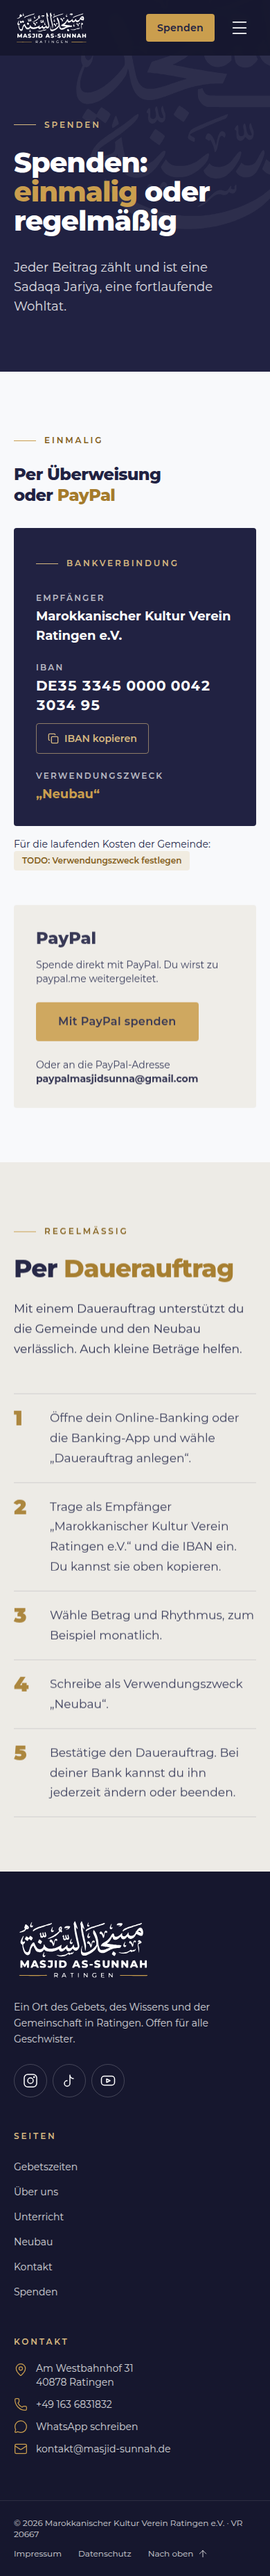
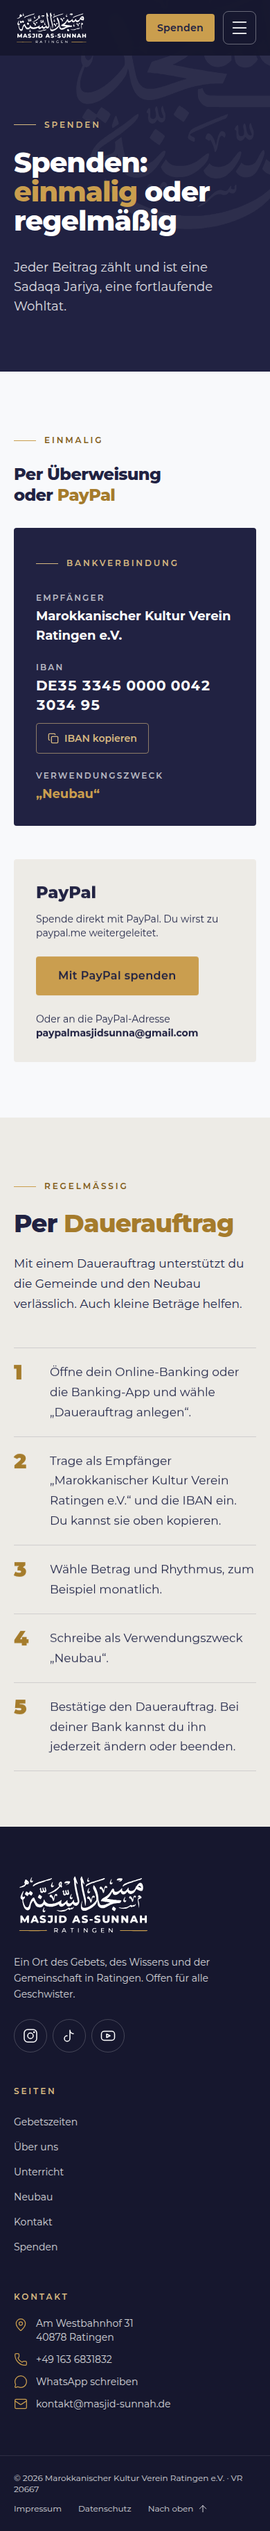
Entscheidungen umgesetzt: Betriebskosten, Spendenziel, Aktuelles, Unterricht-Platzhalter, 1997 entfernt; TODO.md bereinigt
Claude-Session: https://claude.ai/code/session_01EuK36WCbY4YasYgtyrW1Dk

diff --git a/src/app/unterricht/page.tsx b/src/app/unterricht/page.tsx
@@ -1,7 +1,7 @@
 import type { Metadata } from "next";
 import { pageMeta } from "@/lib/seo";
 import { MessageCircle } from "lucide-react";
-import { Button, Card, Heading, Label, Section, TodoChip } from "@/components/ui";
+import { Button, Heading, Label, Section } from "@/components/ui";
 import { Watermark } from "@/components/Logo";
 import { Reveal } from "@/components/Reveal";
 import { arabischStufen, quran } from "@/content/unterricht";
@@ -85,28 +85,16 @@ export default function Unterricht() {
       </Section>
 
       <Section id="anmeldung" tone="stone">
-        <div className="grid gap-12 lg:grid-cols-12 lg:gap-16">
-          <Reveal className="lg:col-span-5">
-            <Label>Anmeldung</Label>
-            <Heading className="mt-6" first="Melde dich" accent="an" />
-            <p className="mt-6">Schreib uns per WhatsApp.</p>
-            <div className="mt-8 flex flex-wrap gap-4">
-              <Button href={wa("Assalamu alaikum, ich möchte mich für den Arabisch-Unterricht anmelden.")} icon={<MessageCircle className="size-4" aria-hidden />}>Arabisch</Button>
-              <Button href={wa("Assalamu alaikum, ich möchte mich für den Qur’an-Unterricht anmelden.")} variant="navy" icon={<MessageCircle className="size-4" aria-hidden />}>Qur’an</Button>
-            </div>
-          </Reveal>
-          <Reveal className="lg:col-span-7" delay={120}>
-            <div className="grid gap-6 sm:grid-cols-3">
-              {/* TODO: Angaben vom Vorstand: Uhrzeiten, Kosten, Altersgruppen (Arabisch: nur Kinder oder auch Erwachsene?), Anmeldeweg */}
-              {["Uhrzeiten", "Kosten", "Altersgruppen"].map((t) => (
-                <Card key={t} tone="paper" className="p-6">
-                  <h3 className="text-lg">{t}</h3>
-                  <p className="mt-3"><TodoChip>folgt</TodoChip></p>
-                </Card>
-              ))}
-            </div>
-          </Reveal>
-        </div>
+        <Reveal className="max-w-2xl">
+          <Label>Anmeldung</Label>
+          <Heading className="mt-6" first="Melde dich" accent="an" />
+          <p className="mt-6">Anmeldung und Fragen laufen über WhatsApp.</p>
+          <div className="mt-8 flex flex-wrap gap-4">
+            <Button href={wa("Assalamu alaikum, ich möchte mich für den Arabisch-Unterricht anmelden.")} icon={<MessageCircle className="size-4" aria-hidden />}>Arabisch anmelden</Button>
+            <Button href={wa("Assalamu alaikum, ich möchte mich für den Qur’an-Unterricht anmelden.")} variant="navy" icon={<MessageCircle className="size-4" aria-hidden />}>Qur’an anmelden</Button>
+            <Button href={site.whatsapp} variant="outline-dark" icon={<MessageCircle className="size-4" aria-hidden />}>Frage stellen</Button>
+          </div>
+        </Reveal>
       </Section>
     </>
   );

diff --git a/src/app/page.tsx b/src/app/page.tsx
@@ -14,7 +14,6 @@ import { JsonLd } from "@/components/JsonLd";
 import { StandortSection } from "@/components/StandortSection";
 import { InstagramIcon, TiktokIcon, YoutubeIcon } from "@/components/icons";
 import { berlinNow } from "@/lib/prayer";
-import { events } from "@/content/events";
 import { bereiche, hadith } from "@/content/neubau";
 import { site } from "@/content/site";
 
@@ -24,7 +23,6 @@ const MAWAQIT = "https://mawaqit.net/de/msjd-lsn-ratingen-40878-germany";
 
 export default function Home() {
   const buildDate = berlinNow().date;
-  const upcoming = events.filter((e) => e.date >= buildDate);
 
   return (
     <>
@@ -165,29 +163,7 @@ export default function Home() {
         </div>
       </Section>
 
-      {/* 6 · Aktuelles (nur bei kommenden Terminen) */}
-      {upcoming.length > 0 ? (
-        <Section id="aktuelles" tone="stone">
-          <Label>Aktuelles</Label>
-          <Heading className="mt-6" first="Kommende" accent="Termine" />
-          <div className="mt-12 grid gap-6 md:grid-cols-2">
-            {upcoming.map((e) => (
-              <Card key={e.title + e.date} tone="paper">
-                <h3 className="text-2xl">{e.title}</h3>
-                {e.titleAr ? <p lang="ar" dir="rtl" className="mt-1 text-xl text-gold-ink">{e.titleAr}</p> : null}
-                <p className="mt-3 font-semibold">{e.dateLabel}</p>
-                {e.schedule ? (
-                  <ul className="mt-4 space-y-1 text-sm">{e.schedule.map((s) => (<li key={s.label} className="flex justify-between gap-4 border-b border-navy/10 py-1"><span>{s.label}</span><span className="font-bold tabular-nums">{s.time} Uhr</span></li>))}</ul>
-                ) : null}
-                <p className="mt-4 text-sm">{e.place.map((l) => (<span key={l} className="block">{l}</span>))}</p>
-                {e.notes ? <ul className="mt-4 list-disc space-y-1 pl-5 text-sm">{e.notes.map((n) => (<li key={n}>{n}</li>))}</ul> : null}
-              </Card>
-            ))}
-          </div>
-        </Section>
-      ) : null}
-
-      {/* 7 · Social & WhatsApp */}
+      {/* 6 · Social & WhatsApp */}
       <Section id="social" tone="navy">
         <Watermark tone="white" opacity={0.04} className="-right-32 -top-24 w-[36rem]" />
         <div className="relative grid items-center gap-12 lg:grid-cols-12 lg:gap-20">
@@ -223,7 +199,7 @@ export default function Home() {
         </div>
       </Section>
 
-      {/* 8 · Standort (Karte ohne Embed) */}
+      {/* 7 · Standort (Karte ohne Embed) */}
       <StandortSection />
     </>
   );

diff --git a/src/app/spenden/page.tsx b/src/app/spenden/page.tsx
@@ -3,7 +3,7 @@ import { pageMeta } from "@/lib/seo";
 import { BankCard } from "@/components/BankCard";
 import { Watermark } from "@/components/Logo";
 import { Reveal } from "@/components/Reveal";
-import { Button, Heading, Label, Section, TodoChip } from "@/components/ui";
+import { Button, Heading, Label, Section } from "@/components/ui";
 import { site } from "@/content/site";
 
 export const metadata: Metadata = pageMeta({ path: "/spenden/", title: "Spenden", description: "Spenden für den Neubau und die Gemeinde der Masjid As-Sunnah Ratingen: per Überweisung, PayPal oder Dauerauftrag." });
@@ -36,8 +36,6 @@ export default function Spenden() {
             <Label>Einmalig</Label>
             <Heading className="mt-6" as="h2" size="md" first="Per Überweisung oder" accent="PayPal" />
             <div className="mt-8"><BankCard id="bank" /></div>
-            {/* TODO: Verwendungszweck für laufende Kosten festlegen (z. B. „Gemeinde“) und hier nennen. */}
-            <p className="mt-4 text-sm">Für die laufenden Kosten der Gemeinde: <TodoChip>Verwendungszweck festlegen</TodoChip></p>
           </Reveal>
           <Reveal className="lg:col-span-5" delay={120}>
             <div className="rounded-sm bg-stone p-8">

diff --git a/src/content/neubau.ts b/src/content/neubau.ts
@@ -1,4 +1,4 @@
-// Texte zum Projekt Neubau. Keine Zahlen und kein Fortschritt, bis echte Angaben vorliegen.
+// Texte zum Projekt Neubau: Beschreibung und Hadith.
 export const bereiche = [
   { key: "gebet", titel: "Gebetsräume", kurz: "Helle Gebetsräume für Männer und Frauen, für die täglichen Gebete, Jumuʻa und Festgebete.", text: "Lichtdurchflutete Gebetsräume für Männer und Frauen, großzügig gestaltet für die täglichen Gebete, Jumuʻa und Festgebete." },
   { key: "bildung", titel: "Bildung", kurz: "Klassenräume, Bibliothek und Seminarräume für Qur’an-Unterricht, Bildung und Vorträge.", text: "Moderne Klassenräume, eine Bibliothek und Seminarräume für Qur’an-Unterricht, islamische Bildung und Vorträge." },

diff --git a/src/content/site.ts b/src/content/site.ts
@@ -12,9 +12,9 @@ export const site = {
   whatsapp: "https://wa.me/491636831832",
   email: { user: "kontakt", domain: "masjid-sunnah.de" },
   social: {
-    instagram: "https://www.instagram.com/sunnahmoschee", // TODO: URL gegen echten Kanal prüfen
-    tiktok: "https://www.tiktok.com/@sunnahmoschee", // TODO: URL gegen echten Kanal prüfen
-    youtube: "https://www.youtube.com/@sunnahmoschee", // TODO: URL gegen echten Kanal prüfen
+    instagram: "https://www.instagram.com/sunnahmoschee",
+    tiktok: "https://www.tiktok.com/@sunnahmoschee",
+    youtube: "https://www.youtube.com/@sunnahmoschee",
   },
   donate: {
     holder: "Marokkanischer Kultur Verein Ratingen e.V.",

diff --git a/src/content/seo.ts b/src/content/seo.ts
@@ -4,9 +4,9 @@
 export const pages: Record<string, { indexable: boolean; grund?: string }> = {
   "/": { indexable: false, grund: "Foto-Platzhalter (Hero, Neubau-Render)" },
   "/gebetszeiten/": { indexable: true },
-  "/unterricht/": { indexable: false, grund: "Uhrzeiten, Kosten, Altersgruppen fehlen" },
+  "/unterricht/": { indexable: true },
   "/neubau/": { indexable: false, grund: "Neubau-Render fehlt" },
-  "/spenden/": { indexable: false, grund: "Verwendungszweck für laufende Kosten fehlt" },
+  "/spenden/": { indexable: true },
   "/kontakt/": { indexable: true },
   "/impressum/": { indexable: true },
   "/datenschutz/": { indexable: true },

diff --git a/src/content/unterricht.ts b/src/content/unterricht.ts
@@ -1,4 +1,4 @@
-// Unterricht. Zeiten, Kosten, Altersgruppen und Anmeldeweg liefert der Vorstand nach (siehe TODO.md).
+// Unterricht. Anmeldung und Fragen laufen ausschließlich über WhatsApp (src/content/site.ts).
 export const arabischStufen = [
   { nr: 1, titel: "Buchstaben und erstes Lesen", punkte: ["Buchstaben lernen", "Erste Schritte im Lesen"] },
   { nr: 2, titel: "Lesen, Schreiben, Grundlagen", punkte: ["Leselektion: den Qur’an lesen", "Diktat und Schreiben", "Leichte, grundlegende Grammatik", "Religion nach Niveau, zum Beispiel Verhalten gegenüber Familie und Eltern, Säulen des Islams"] },

diff --git a/src/components/JsonLd.tsx b/src/components/JsonLd.tsx
@@ -3,8 +3,7 @@ import { site } from "@/content/site";
 
 /**
  * Schema.org „Mosque“: nur verbindliche Fakten (Name, Adresse, Telefon, E-Mail, Social-Profile, Koordinaten, Träger).
- * Keine Öffnungszeiten, Bewertungen, Kursdaten oder Gründungsjahr.
- * TODO: Social-URLs vor dem Livegang prüfen (siehe src/content/site.ts).
+ * Keine Öffnungszeiten, Bewertungen oder Kursdaten.
  */
 export function JsonLd() {
   const data = {

diff --git a/src/components/ui.tsx b/src/components/ui.tsx
@@ -170,12 +170,3 @@ export function Section({
     </section>
   );
 }
-
-/** Sichtbare Markierung für noch fehlende Angaben (wird entfernt, sobald die Angabe vorliegt). */
-export function TodoChip({ children }: { children: ReactNode }) {
-  return (
-    <span className="inline-flex rounded-sm bg-gold/15 px-3 py-1.5 text-xs font-semibold text-gold-ink">
-      TODO: {children}
-    </span>
-  );
-}

diff --git a/TODO.md b/TODO.md
@@ -1,77 +1,33 @@
-# Offene Punkte (wird laufend gepflegt)
+# Offene Punkte
 
-Im Code sind dieselben Stellen als sichtbares `TODO:` markiert.
+Stand: 5.10.2026. Nur was wirklich noch offen ist.
 
-## Von Ayman zu liefern
-- [ ] **Hosting:** Anbieter, Paket, Zugangsart, DNS-Verwaltung. Bis dahin statischer Export ohne Hosting-Annahmen.
-- [ ] **Kontaktformular:** bewusst nicht gebaut. Bis dahin WhatsApp, mailto, Telefon. Platz im Layout bleibt reserviert.
-- [ ] **Fotos:** innen, außen, Unterricht, Gemeinde. Bis dahin Platzhalter `TODO: echtes Foto`. Keine erkennbaren Personen, keine Kinder, bis ausdrücklich bestätigt.
-- [ ] **Neubau-Render** in voller Auflösung. Auf dem alten Server liegen `images/neubau-1…6.webp` (nicht geliefert).
-- [ ] **Spendenziel, Stand, Datum** (Neubau). Bis dahin kein Fortschrittsbalken, keine Zahlen.
-- [ ] **Betriebskosten pro Monat:** bis dahin kein Block „Was der Betrieb kostet“.
-- [ ] **Unterricht:** Uhrzeiten, Kosten, Altersgruppen, Anmeldeweg (bis dahin WhatsApp).
-- [ ] **Aktuelles:** aktuell keine Veranstaltung → Sektion ausgeblendet.
-- [ ] **Social-Designs** als Referenz (Flyer, Reel-Cover, Gebetszeiten-Tabelle).
-- [ ] **Gründungsjahr 1997:** nicht bestätigt, steht nicht auf der Seite.
-- [x] **Logo:** neues Paket (v2) eingebaut. SVGs rendern bei 1x und 3x korrekt, grauer Fleck ist weg. Header und Footer nutzen die weiße SVG.
-- [ ] **Repo `masjid-sunnah`:** konnte ich nicht anlegen. Aufbau liegt im Ordner `masjid-sunnah/` auf Branch `claude/practical-wright-d1vge6`.
-
-## Rechtlich prüfen lassen (nichts daran geändert)
-- [ ] Impressum und Datenschutz bleiben wörtlich wie auf der alten Seite. Rechtlich prüfen lassen:
-  - Impressum zitiert TMG. Das TMG wurde durch das DDG ersetzt.
-  - Datenschutz nennt nicht: Karte (OpenStreetMap, Klick-zum-Laden), TikTok-Einbettung, MAWAQIT (Abruf zur Build-Zeit, kein Besucherkontakt), WhatsApp/Telefon als Kontaktweg, Hoster.
-  - Der alte Text nennt Cloudflare Turnstile, Google Fonts und das MAWAQIT-iframe nicht. Die neue Seite lädt sie nicht.
-
-## Freigaben
-
-## Technisch
-- [x] **MAWAQIT:** echte confData als Datenquelle und Fallback (`data/mawaqit-confData.json`). Live-Abruf aus dieser Umgebung nicht möglich (HTTP 403), der Abruf-Teil des Skripts ist daher nur gegen einen nachgebauten HTML-Ausschnitt getestet. Einmal lokal oder in der CI mit Netzzugang prüfen: `npm run mawaqit` muss „neue Daten geladen“ melden.
-- [ ] **Jumuʿa:** 14:00 Uhr bis 25.10.2026, danach 13:00 Uhr (Winterzeit). Als Einstellung in `content/`. 29.10. = 28.10. in MAWAQIT, unverändert lassen.
-- [ ] Open-Graph-Bild: `og-image-1200x630.png` geliefert, in Phase 6 einbinden.
-- [ ] Favicons/Manifest: Icons geliefert, Manifest in Phase 6.
-
-## Phase 2 (Design-System)
-- [x] Screenshots der alten Seite gestrichen (Entscheidung Ayman). Phase 1 gilt als abgeschlossen, Texte aus `_incoming/alte-seite-text.txt`.
-- [ ] **Social-URLs vor Livegang prüfen:** `src/content/site.ts` (Instagram, TikTok, YouTube @sunnahmoschee) sind aus dem Handle abgeleitet und nicht geprüft.
-- [ ] `/styleguide/` vor dem Livegang entfernen (ist `noindex`).
-- [ ] Mobile-Menü und Header sind nur mit Platzhalterseiten getestet. Zielseiten (`/gebetszeiten/`, `/unterricht/`, `/neubau/`, `/kontakt/`, `/spenden/`, `/impressum/`, `/datenschutz/`) entstehen in den Phasen 3–5. Bis dahin 404.
-
-## Phase 3 (Startseite)
-- [ ] **Fotos (Platzhalter mit sichtbarem „TODO: echtes Foto“):** Neubau-Render (Querformat, volle Auflösung). Der Hero hat jetzt ein echtes Foto (siehe Phase 6). `aussen-eingang.jpg` wurde nicht geliefert. Gebetsraum-Foto ist eingebaut (Über uns, Gebetszeiten). In `src/app/page.tsx` über `<Photo src=… />` einsetzen. Keine erkennbaren Personen, keine Kinder.
-- [x] **Standort-Karte:** umgesetzt als dekorative Karte ohne Embed (`StandortKarte`), „Route planen“ öffnet Google Maps erst beim Klick in neuem Tab. Datenschutz laut Vorgabe nicht ergänzt, bei der Prüfung mit erwähnen (externer Link zu Google).
-- [ ] **Jumuʻa:** Einstellung in `src/content/settings.ts` (14:00 bis 24.10.2026, ab 25.10.2026 13:00).
-- [ ] **Aktuelles:** `src/content/events.ts` ist leer, die Sektion ist ausgeblendet. Ein Eintrag mit Datum blendet sie ein.
-- [ ] Hero-Headline, Angebots- und Neubau-Texte sind aus den Texten der alten Seite gekürzt/umformuliert (nicht die Rechtstexte). Bitte gegenlesen.
-- [ ] Schreibweise: im Text steht `ʻ` (U+02BB) statt `ʿ`, weil Montserrat dieses Zeichen sauber darstellt.
-
-## Phase 4 (Gebetszeiten)
-- [ ] **Deployment des täglichen Builds:** `.github/workflows/daily-build.yml` baut täglich (03:17 UTC) und lädt `out/` als Artefakt hoch. Der Deploy-Schritt fehlt, bis das Hosting klar ist. Der Workflow läuft erst, wenn `masjid-sunnah/` das Repo-Wurzelverzeichnis ist.
-- [ ] **Auffälligkeiten in den MAWAQIT-Daten (unverändert übernommen):**
-  - 17.8.: Maghrib-Beginn 20:51 (Nachbartage 20:57 und 20:53), Iqāma 21:01 (Nachbartage 21:07 und 21:03). Wirkt wie ein Tippfehler in MAWAQIT.
-  - Identisch zum Vortag: 7.1., 22.1., 6.2., 20.2., 1.3., 7.3., 9.3., 18.6., 22.6., 26.6., 3.7., 29.10., 12.11., 27.11., 12.12., 26.12. Der 29.10. bleibt wie vorgegeben.
-  - Kalender enthält 29 Tage im Februar und gilt jahresunabhängig (Zeiten sind Tag/Monat-Werte, kein Jahr).
-  - 25.2.: Dhuhr-Beginn 12:48 und Iqāma 12:58 (Nachbartage 12:46/12:56), kleine Abweichung.
-- [ ] `announcements` (Instagram/TikTok/YouTube/PayPal-QR-Bilder von MAWAQIT) sind in `data/mawaqit-confData.json` nicht enthalten, die Seite braucht sie nicht.
-- [ ] Hijri-Tageswechsel um Maghrib (optional) ist nicht gebaut. Wechsel erfolgt nach Kalendertag wie im gedruckten Plan.
-- [ ] Jumuʻa: MAWAQIT meldet 14:00 (`jumuaMawaqit`). Maßgeblich ist `src/content/settings.ts` (13:00 ab 25.10.2026). MAWAQIT selbst muss ab 25.10. auf 13:00 gestellt werden, sonst weicht die App ab.
-- [ ] Gebetszeiten-Seite ist druckbar (Strg+P), Layout für Papier noch nicht an den gedruckten Plan angeglichen.
-
-## Phase 5 (Unterseiten)
-- [ ] **Unterricht:** Uhrzeiten, Kosten, Altersgruppen (Arabisch: nur Kinder oder auch Erwachsene?) und Anmeldeweg fehlen, auf der Seite sichtbar als „TODO: folgt“. Anmeldung läuft bis dahin über WhatsApp mit vorbefülltem Text.
-- [ ] **Spenden:** Verwendungszweck für laufende Kosten festlegen (sichtbares TODO auf `/spenden/`). Block „Was der Betrieb kostet“ fehlt bewusst, bis echte Zahlen vorliegen.
-- [ ] **Neubau:** Render fehlt (Platzhalter), Spendenziel/Stand fehlen (kein Fortschrittsbalken). Text zu Sadaqa Jariya gegenlesen lassen (`src/app/neubau/page.tsx`).
-- [ ] **Kontaktformular:** bewusst nicht gebaut (Hosting, Backend, Datenschutz offen). Platz ist als Kommentar in `src/app/kontakt/page.tsx` vermerkt. Rechts auf `/kontakt/` steht bis dahin die Standort-Karte.
-- [ ] **Impressum/Datenschutz:** Text wörtlich übernommen und maschinell gegen die alte Seite geprüft. Einzige Abweichung: E-Mail-Adresse gegen Spam dargestellt (`kontakt [at] masjid-sunnah.de`, im Browser als Link). Weiter rechtlich prüfen lassen (siehe oben).
-- [ ] **Ansprache „du“:** Auf der ganzen Seite jetzt „du“ (Vorgabe „So findest du uns“). Die Rechtstexte bleiben wörtlich bei „Sie“. Falls „Sie“ gewünscht ist: Texte in `src/app/**` und `src/components/StandortSection.tsx`.
-- [ ] `font-mono` für die Koordinaten in `StandortKarte` ist keine Markenschrift (Systemschrift). Auf Wunsch auf Montserrat umstellen.
-
-## Phase 6 (Feinschliff)
-- [ ] **Hero-Foto:** Das gelieferte Foto ist ein Hochformat (1450 × 2576 px). Auf Desktop wird daraus ein schmaler Ausschnitt, die Überschrift liegt links über dem Rand der Gebetsnische. Ein Querformat-Foto (mindestens 2400 px breit) wäre besser. Dann nur `quellen/fotos/hero.jpg` ersetzen (`npm run build` erzeugt alle Größen, 1600/2400 px entstehen automatisch, sobald das Original breit genug ist). Fokuspunkt und Bildhöhe: `src/content/hero.ts`.
+## Fotos
+- [ ] **Neubau-Render** (Querformat, volle Auflösung): Startseite und `/neubau/` zeigen bis dahin einen sichtbaren Platzhalter („TODO: echtes Foto“). Einsetzen über `<Photo src=… />` in `src/app/page.tsx` und `src/app/neubau/page.tsx`.
+- [ ] **Hero-Bild:** Das gelieferte Foto ist ein Hochformat (1450 × 2576 px). Auf Desktop wird daraus ein schmaler Ausschnitt. Besser wäre ein Querformat mit mindestens 2400 px Breite. Ersetzen: `quellen/fotos/hero.jpg`, alle Größen entstehen beim Build. Fokuspunkt und Bildhöhe: `src/content/hero.ts`.
 - [ ] `aussen-eingang.jpg` wurde nicht geliefert.
-- [ ] **Indexierung:** Liste in `src/content/seo.ts`. Auf `false` stehen `/` (Foto-Platzhalter Neubau-Render), `/unterricht/`, `/neubau/`, `/spenden/` (TODO-Platzhalter) und `/styleguide/`. Vor dem Livegang auf `true` setzen, sobald die Platzhalter weg sind. `npm run check` meldet Widersprüche (TODO-Text auf indexierbarer Seite).
-- [ ] **Vorschau-Schalter entfernen (Livegang):** In `.github/workflows/pages.yml` `NEXT_PUBLIC_NOINDEX`, `NEXT_PUBLIC_BASE_PATH` und `NEXT_PUBLIC_SITE_URL` entfernen bzw. auf die Hauptdomain setzen. Sonst sperrt `robots.txt` alles.
-- [ ] `/styleguide/` vor dem Livegang entfernen.
-- [ ] **Schema.org:** enthält nur Fakten (Name, Adresse, Telefon, E-Mail, Social-Links, Koordinaten, Träger). Die E-Mail steht dort im Klartext im HTML (Vorgabe), die sichtbare Darstellung bleibt gegen Spam geschützt. Social-URLs vor Livegang prüfen.
-- [ ] **Google Maps:** „Route planen“ öffnet erst beim Klick. Datenschutzerklärung nennt das nicht (bewusst nicht geändert, rechtlich prüfen lassen).
-- [ ] **Lighthouse mobil** (simuliert, 4× Drosselung): 95–98 auf den meisten Seiten, einzelne Läufe 88–91 durch Streuung der Simulation. LCP 2,1–3,3 s schwankt, im ungedrosselten Browser liegt das Hero-Bild nach rund 0,2 s. Ursachen: Next/React-Grundlast (157 KB Skripte), Schriften (ca. 70 KB), Hero-Bild (27 KB bei 800 px).
-- [ ] Schriften: Teilmengen mit `python3 scripts/subset-fonts.py` neu erzeugen, wenn neue Sonderzeichen oder arabischer Text dazukommen. Ersatzschriften mit `node scripts/font-fallbacks.mjs` (braucht Playwright).
+- [ ] Keine erkennbaren Personen und keine Kinder auf der Seite, solange das nicht ausdrücklich bestätigt ist.
+
+## Hosting
+- [ ] **Anbieter, Zugang und DNS-Verwaltung** klären. Bis dahin läuft nur die GitHub-Pages-Vorschau (`aymanoul.github.io/masjid-sunnah/`). Der Deploy-Schritt für das echte Hosting fehlt in `.github/workflows/pages.yml`.
+- [ ] **Kontaktformular:** bewusst nicht gebaut. Kontakt läuft über WhatsApp, E-Mail und Telefon. Ein Formular erst, wenn Hosting, Backend und Datenschutz geklärt sind (Platz: `src/app/kontakt/page.tsx`).
+
+## Rechtliche Prüfung (nichts daran geändert)
+- [ ] Impressum und Datenschutzerklärung stehen wörtlich wie auf der alten Seite. Rechtlich prüfen lassen:
+  - Impressum zitiert TMG, das durch das DDG ersetzt wurde.
+  - Datenschutz nennt nicht: Karte und „Route planen“ (öffnet Google Maps beim Klick), TikTok, MAWAQIT (Abruf nur beim Bauen, kein Kontakt des Besuchers), WhatsApp und Telefon als Kontaktweg, Hoster, ein späteres Formular.
+  - Schema.org enthält die E-Mail im Klartext im HTML (Vorgabe). Sichtbar ist sie gegen Spam geschützt.
+
+## Vor dem Livegang
+- [ ] Vorschau-Schalter in `.github/workflows/pages.yml` entfernen (`NEXT_PUBLIC_NOINDEX`, `NEXT_PUBLIC_BASE_PATH`, `NEXT_PUBLIC_SITE_URL`). Sonst sperrt `robots.txt` alles.
+- [ ] Sobald der Neubau-Render da ist: `/` und `/neubau/` in `src/content/seo.ts` auf `indexable: true` setzen. `npm run check` meldet Widersprüche.
+- [ ] `/styleguide/` entfernen.
+- [ ] MAWAQIT einmal mit Netzzugang prüfen: `npm run mawaqit` muss „neue Daten geladen“ melden. Aus der Entwicklungsumgebung war der Abruf nicht möglich, es lief der Fallback (`data/mawaqit-confData.json`).
+- [ ] In MAWAQIT die Jumuʻa-Zeit ab 25.10.2026 auf 13:00 stellen. Auf der Seite steht sie in `src/content/settings.ts`.
+- [ ] Texte gegenlesen: Hero, Angebot, Neubau, Sadaqa Jariya (`src/app/neubau/page.tsx`), die fünf Dauerauftrag-Schritte (`src/app/spenden/page.tsx`).
+
+## Hinweise (kein Handlungsbedarf)
+- Gebetsdaten von MAWAQIT wurden unverändert übernommen. Auffälligkeiten dort: 17.8. Maghrib 20:51 (Nachbartage 20:57 und 20:53), 25.2. Dhuhr 12:48, 16 Tage identisch mit dem Vortag (u. a. 29.10., bleibt wie in MAWAQIT).
+- Hijri-Datum nach Umm al-Qura, Wechsel um Mitternacht wie im gedruckten Plan.
+- Schriften: bei neuen Sonderzeichen oder arabischem Text `python3 scripts/subset-fonts.py`, bei neuen Schriftgewichten `node scripts/font-fallbacks.mjs`.
+- Lighthouse (simuliert): Desktop 100, mobil 95–98, einzelne Läufe der Startseite 88–91 durch Streuung der Simulation.

diff --git a/ANALYSE.md b/ANALYSE.md
@@ -6,9 +6,9 @@
 - Kontaktformular: `method="post" action="#contact"`, Honeypot-Feld `website`, Cloudflare Turnstile. Die Verarbeitung läuft serverseitig auf dem Hoster (vermutlich PHP). Der Code dafür steht nicht in der HTML.
 - Externe Requests ohne Einwilligung: Google Fonts (Cormorant Garamond, Amiri, IM Fell English SC), Cloudflare Turnstile (beim Laden), MAWAQIT-iframe im Hero. Das widerspricht der Datenschutzerklärung („keine externen Analysedienste“) und dem DSGVO-Anspruch. Die neue Seite lädt nichts davon vorab.
 - TikTok: Klick-zum-Laden, 6 feste Video-IDs, zufällige Auswahl.
-- Neubau-Slider referenziert `images/neubau-1.webp` … `neubau-6.webp`. Diese Bilder wurden nicht geliefert (TODO).
+- Neubau-Slider referenziert `images/neubau-1.webp` … `neubau-6.webp`. Diese Bilder wurden nicht geliefert.
 - Vereinsname steht in der Seite als „Marrokanischer Kulturverein“ (Falschschreibung) und als „Marokkanischer Kultur Verein Ratingen e.V.“ (korrekt, Impressum). Neu überall korrekt.
-- Aktuelles: Eid-Gebet am Mittwoch, 27. Mai (vorbei) → Sektion bleibt weg.
+- Aktuelles: Eid-Gebet am Mittwoch, 27. Mai (vorbei). Der Bereich „Aktuelles“ entfällt in der neuen Seite.
 - Stil: dunkelgrün/gold, IM Fell English SC, Emojis als Icons, Glow-Animation, „im Aufbau“-Texte, „Demnächst“-Liste. Das ist der zu vermeidende KI-Look.
 
 ## Rechtstexte
